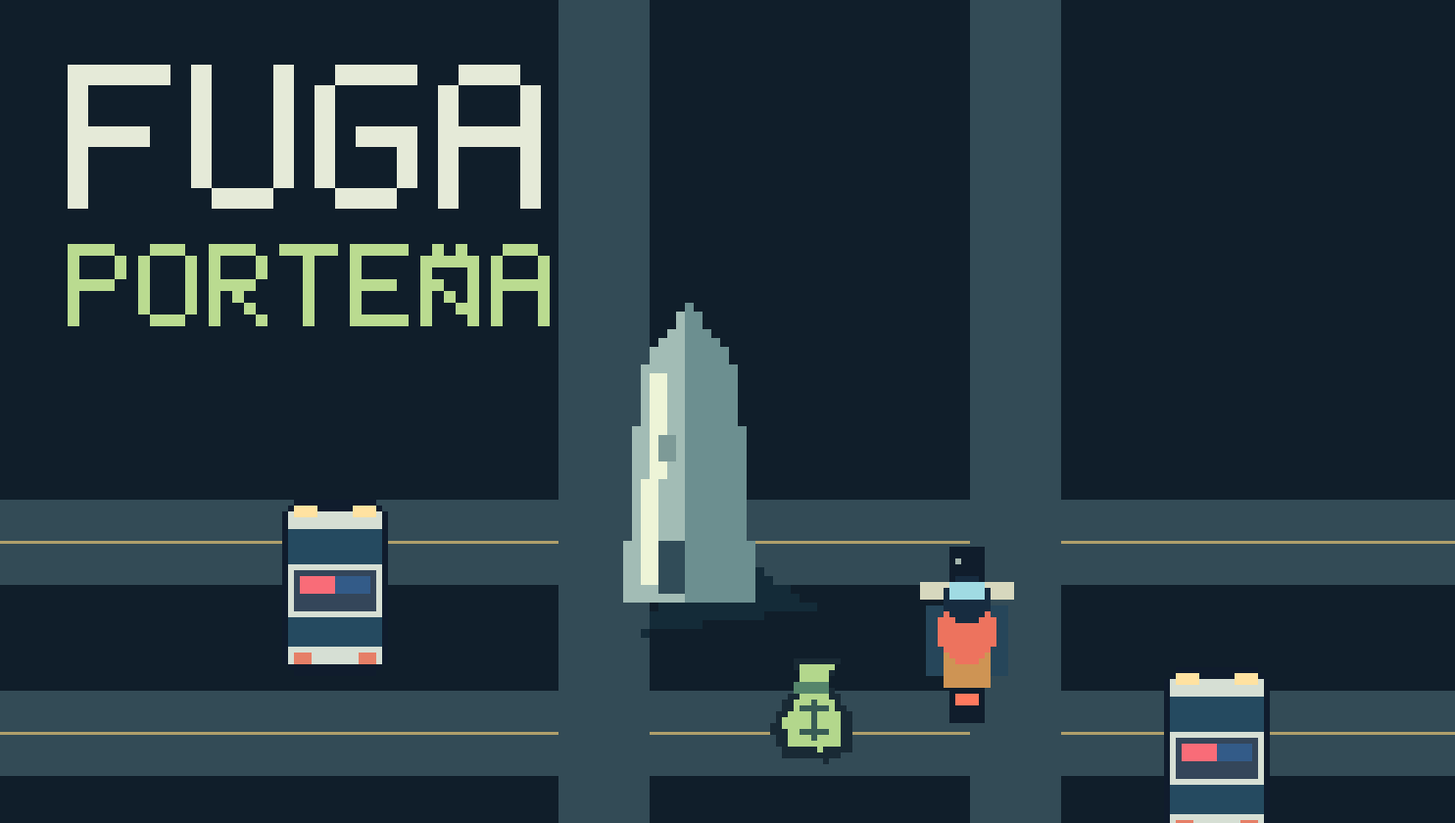
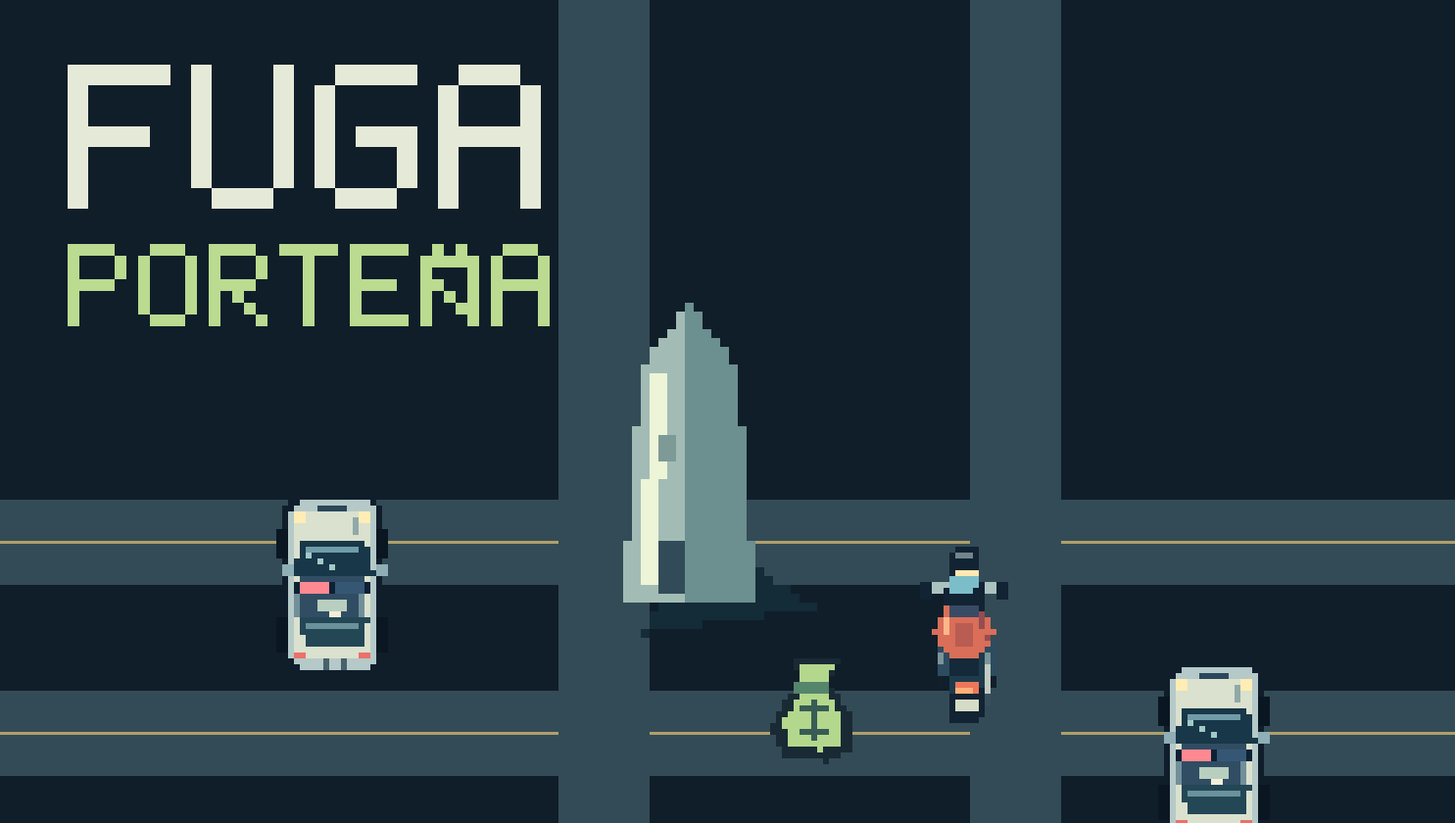
Upgrade Fuga Portena vehicles, animation and arcade chase bonuses

Changed region(s): [[0.1859, 0.5881, 0.2788, 0.8357], [0.7744, 0.8048, 0.8983, 1.0], [0.6195, 0.65, 0.7125, 0.8667]]

diff --git a/games/fuga-portena/game.js b/games/fuga-portena/game.js
@@ -5,23 +5,24 @@ const sound={ctx:null,on:saved.sound,unlock(){try{this.ctx??=new(window.AudioCon
 const V={up:{x:0,y:-1},down:{x:0,y:1},left:{x:-1,y:0},right:{x:1,y:0}};
 class FugaScene extends Phaser.Scene{
  constructor(){super('Fuga');}
- preload(){this.load.json('map','map.json');this.load.image('city','assets/city.png');for(const key of ['moto','patrol','money','coin','mate','obelisk']){const w=key==='obelisk'?32:key==='moto'||key==='patrol'?24:16,h=key==='obelisk'?40:key==='moto'||key==='patrol'?32:20;this.load.spritesheet(key,`assets/${key}-sheet.png`,{frameWidth:w,frameHeight:h});}}
+ preload(){this.load.json('map','map.json');this.load.image('city','assets/city.png');for(const key of ['moto','patrol','money','coin','mate','obelisk']){const w=key==='obelisk'?32:key==='moto'||key==='patrol'?48:16,h=key==='obelisk'?40:key==='moto'||key==='patrol'?64:20;this.load.spritesheet(key,`assets/${key}-sheet.png`,{frameWidth:w,frameHeight:h});}}
  create(){
-  this.map=this.cache.json.get('map');this.nodes=this.map.nodes;this.mode='title';this.clock=0;this.score=0;this.lives=3;this.round=1;this.power=0;this.invulnerable=0;this.chain=0;this.particles=[];this.wanted=V.right;this.heading=V.right;this.braking=false;this.overview=false;
-  this.add.image(0,0,'city').setOrigin(0).setDepth(-5);this.art=this.add.graphics().setDepth(1);this.effects=this.add.graphics().setDepth(12);this.drawLandmarks();
+  this.map=this.cache.json.get('map');this.nodes=this.map.nodes;this.mode='title';this.clock=0;this.score=0;this.lives=3;this.round=1;this.power=0;this.invulnerable=0;this.chain=0;this.particles=[];this.wanted=V.right;this.heading=V.right;this.braking=false;this.overview=false;this.nitro=0;this.nitroCooldown=0;this.streak=0;this.streakTimer=0;this.skids=[];
+  this.add.image(0,0,'city').setOrigin(0).setDepth(-5);this.art=this.add.graphics().setDepth(1);this.effects=this.add.graphics().setDepth(12);this.groundFX=this.add.graphics().setDepth(7);this.drawLandmarks();
   this.startNode=Fuga.nearest(this.nodes,{x:245,y:454});this.homePoints=[{x:100,y:100},{x:800,y:110},{x:820,y:740},{x:120,y:730}].map(p=>Fuga.nearest(this.nodes,p));
   this.hero=this.actor('moto',this.startNode);this.cops=this.homePoints.map((n,i)=>({...this.actor('patrol',n),role:i,home:n,spin:0,returning:0}));
-  this.keys=this.input.keyboard.addKeys('W,A,S,D,UP,DOWN,LEFT,RIGHT,SPACE,P');this.input.keyboard.addCapture(['UP','DOWN','LEFT','RIGHT','SPACE']);
+  this.keys=this.input.keyboard.addKeys('W,A,S,D,UP,DOWN,LEFT,RIGHT,SPACE,P,N,SHIFT');this.input.keyboard.addCapture(['UP','DOWN','LEFT','RIGHT','SPACE']);
   for(const [key,dir] of Object.entries({W:'up',UP:'up',S:'down',DOWN:'down',A:'left',LEFT:'left',D:'right',RIGHT:'right'}))this.input.keyboard.on('keydown-'+key,()=>this.turn(V[dir]));
   this.input.keyboard.on('keydown-P',e=>{if(!e.repeat)this.pauseToggle();});
+  this.input.keyboard.on('keydown-N',e=>{if(!e.repeat)this.boost();});this.input.keyboard.on('keydown-SHIFT',e=>{if(!e.repeat)this.boost();});$('#nitro').onclick=()=>this.boost();
   for(const b of document.querySelectorAll('[data-dir]'))b.onclick=()=>this.turn(V[b.dataset.dir]);
   $('#brake').onpointerdown=e=>{e.preventDefault();this.braking=true;};for(const k of ['onpointerup','onpointerleave','onpointercancel'])$('#brake')[k]=()=>this.braking=false;
   this.input.on('pointerdown',p=>{this.swipe={x:p.x,y:p.y};});this.input.on('pointermove',p=>{if(p.isDown&&this.swipe){const x=p.x-this.swipe.x,y=p.y-this.swipe.y;if(Math.hypot(x,y)>22){this.turn(Math.abs(x)>Math.abs(y)?x>0?V.right:V.left:y>0?V.down:V.up);this.swipe={x:p.x,y:p.y};}}});this.input.on('pointerup',()=>this.swipe=null);
   $('#start').onclick=()=>{sound.unlock();if(this.mode==='paused')this.resume();else if(this.mode==='between'){this.round++;this.beginRound();}else this.start();};$('#pause').onclick=()=>this.pauseToggle();$('#view').onclick=()=>{this.overview=!this.overview;this.camera();};$('#sound').onclick=()=>{sound.on=!sound.on;saved.sound=sound.on;sound.unlock();save();this.soundUI();};
   this.game.events.on(Phaser.Core.Events.BLUR,()=>{if(this.mode==='playing')this.pauseToggle();});this.scale.on('resize',()=>this.camera());this.camera();this.pickups=[];this.setupPickups();this.hud();this.soundUI();this.cameras.main.centerOn(510,440);
  }
- actor(texture,node){const p=this.nodes[node];return{at:node,to:null,prev:null,t:0,x:p.x,y:p.y,angle:0,sprite:this.add.image(p.x,p.y,texture).setScale(texture==='moto'?1.35:1.2).setDepth(9)};}
- place(a,node){const p=this.nodes[node];Object.assign(a,{at:node,to:null,prev:null,t:0,x:p.x,y:p.y});a.sprite.setPosition(p.x,p.y).setAlpha(1).setVisible(true).clearTint();}
+ actor(texture,node){const p=this.nodes[node];return{at:node,to:null,prev:null,t:0,x:p.x,y:p.y,angle:0,visualAngle:0,skid:0,sprite:this.add.image(p.x,p.y,texture).setScale(texture==='moto'?.85:.8).setDepth(9)};}
+ place(a,node){const p=this.nodes[node];Object.assign(a,{at:node,to:null,prev:null,t:0,x:p.x,y:p.y,angle:0,visualAngle:0,skid:0});a.sprite.setPosition(p.x,p.y).setAlpha(1).setVisible(true).clearTint();}
  camera(){const c=this.cameras.main;c.setBounds(-20,-20,this.map.width+40,this.map.height+40);const fit=Math.min(this.scale.width/this.map.width,this.scale.height/this.map.height);const zoom=this.overview?fit:Math.max(fit,this.scale.width<650?1.03:.95);c.setZoom(zoom);c.startFollow(this.hero.sprite,true,.1,.1);$('.arena').classList.toggle('overview',this.overview);$('#view').textContent=this.overview?'SEGUIR MOTO ⌖':'VER TODO ⤢';}
  drawLandmarks(){
   const [x,y]=this.map.obelisk;this.add.image(x,y-9,'obelisk').setScale(1.7).setDepth(4);this.label(x,y+32,'OBELISCO',0xbadba3,10);
@@ -38,17 +39,17 @@ class FugaScene extends Phaser.Scene{
  }
  addPickup(node,type){const p=this.nodes[node];this.pickups.push({node,type,x:p.x,y:p.y,taken:false,sprite:this.add.image(p.x,p.y,type).setDepth(5).setScale(type==='coin'?.8:1.25)});}
  start(){this.score=0;this.round=1;this.lives=3;this.beginRound();}
- beginRound(){this.setupPickups();this.resetActors();this.mode='playing';this.power=0;this.chain=0;this.invulnerable=2.2;this.aiWait=0;this.particles=[];this.clock=0;$('#overlay').classList.add('hidden');this.toast('RONDA '+this.round+' · LEVANTÁ EL BOTÍN',2);this.hud();}
- resetActors(){this.place(this.hero,this.startNode);this.wanted=V.right;this.heading=V.right;this.braking=false;for(const c of this.cops){this.place(c,c.home);c.returning=0;c.spin=0;}this.swipe=null;}
+ beginRound(){this.setupPickups();this.resetActors();this.mode='playing';this.power=0;this.chain=0;this.invulnerable=2.2;this.aiWait=0;this.particles=[];this.clock=0;this.nitro=0;this.nitroCooldown=0;this.streak=0;this.streakTimer=0;this.skids=[];$('#overlay').classList.add('hidden');this.toast('RONDA '+this.round+' · LEVANTÁ EL BOTÍN',2);this.hud();}
+ resetActors(){this.place(this.hero,this.startNode);this.wanted=V.right;this.heading=V.right;this.braking=false;this.nitro=0;for(const c of this.cops){this.place(c,c.home);c.returning=0;c.spin=0;c.near=false;}this.swipe=null;}
  soundUI(){$('#sound').textContent=sound.on?'♪ ON':'♪ OFF';$('#sound').setAttribute('aria-label',sound.on?'Silenciar sonido':'Activar sonido');}
  hud(){$('#score').textContent=String(this.score).padStart(5,'0');$('#best').textContent=String(saved.best).padStart(5,'0');$('#round').textContent='0'+this.round+' / 03';$('#remaining').textContent=this.left;$('#lives').innerHTML=Array.from({length:3},(_,i)=>`<img src="assets/mate.png" alt="" class="${i>=this.lives?'empty':''}">`).join('');$('#lives').setAttribute('aria-label',this.lives+' mates');}
  turn(v){if(this.mode!=='playing')return;this.wanted=v;const h=this.hero;if(h.to!==null){const dir=Fuga.direction(this.nodes,h.at,h.to);if(dir.x*v.x+dir.y*v.y<-.8){const old=h.at;h.at=h.to;h.to=old;h.t=1-h.t;this.heading={x:-dir.x,y:-dir.y};}}}
- move(a,speed,dt,choose){let remaining=speed*dt,guard=0;while(remaining>0&&guard++<80){if(a.to===null){const l=choose(a);if(!l)break;a.to=l.to;a.road=l.name;a.t=0;}const n=this.nodes[a.at],next=this.nodes[a.to],length=Fuga.dist(n,next),available=(1-a.t)*length;if(remaining>=available){remaining-=available;a.prev=a.at;a.at=a.to;a.to=null;a.x=next.x;a.y=next.y;}else{a.t+=remaining/length;a.x=n.x+(next.x-n.x)*a.t;a.y=n.y+(next.y-n.y)*a.t;remaining=0;}a.angle=Math.atan2(next.y-n.y,next.x-n.x)+Math.PI/2;}a.sprite.setPosition(a.x,a.y).setRotation(a.angle);}
+ move(a,speed,dt,choose){let remaining=speed*dt,guard=0;while(remaining>0&&guard++<80){if(a.to===null){const l=choose(a);if(!l)break;a.to=l.to;a.road=l.name;a.t=0;}const n=this.nodes[a.at],next=this.nodes[a.to],length=Fuga.dist(n,next),available=(1-a.t)*length;if(remaining>=available){remaining-=available;a.prev=a.at;a.at=a.to;a.to=null;a.x=next.x;a.y=next.y;}else{a.t+=remaining/length;a.x=n.x+(next.x-n.x)*a.t;a.y=n.y+(next.y-n.y)*a.t;remaining=0;}const angle=Math.atan2(next.y-n.y,next.x-n.x)+Math.PI/2;if(Math.abs(Phaser.Math.Angle.Wrap(angle-a.angle))>.5){a.skid=.28;if(this.mode==='playing')this.burst(a.x,a.y,0x879b99,4);}a.angle=angle;}a.visualAngle=Phaser.Math.Angle.RotateTo(a.visualAngle,a.angle,dt*11);a.sprite.setPosition(a.x,a.y).setRotation(a.visualAngle);}
  chooseHero(a){const l=Fuga.steer(this.nodes,a.at,this.wanted,this.heading);if(l)this.heading=Fuga.direction(this.nodes,a.at,l.to);return l;}
  chooseCop(c){let options=this.nodes[c.at].links.filter(l=>l.to!==c.prev);if(!options.length)options=this.nodes[c.at].links;const distances=this.distances[c.role]||[];options=options.map(l=>({...l,value:distances[l.to]??999}));options.sort((a,b)=>this.power>0?b.value-a.value:a.value-b.value);return options[0];}
- collect(p){if(p.taken)return;p.taken=true;p.sprite.setVisible(false);if(p.type==='coin'){this.score+=10;this.left--;sound.play(480+(this.score%4)*80,.04);}if(p.type==='money'){this.score+=50;this.power=9;this.chain=0;this.toast('BOLSA DE DINERO · ¡VENTAJA!',1.5);sound.play(300,.25);this.burst(p.x,p.y,0xbadf93,16);}if(p.type==='mate'){this.lives=Math.min(3,this.lives+1);this.score+=25;this.toast('UN MATE MÁS PARA SEGUIR',1.4);sound.play(780,.18);}this.hud();if(this.left===0)this.endRound();}
+ collect(p){if(p.taken)return;p.taken=true;p.sprite.setVisible(false);if(p.type==='coin'){this.score+=10;this.left--;this.streak=this.streakTimer>0?this.streak+1:1;this.streakTimer=2.1;if(this.streak%5===0){this.score+=25;this.toast('RACHA ×'+this.streak+' · +25',.8);this.burst(p.x,p.y,0xf0cb82,8);}sound.play(480+(this.score%4)*80,.04);}if(p.type==='money'){this.score+=50;this.power=9;this.chain=0;this.toast('BOLSA DE DINERO · ¡VENTAJA!',1.5);sound.play(300,.25);this.burst(p.x,p.y,0xbadf93,16);}if(p.type==='mate'){this.lives=Math.min(3,this.lives+1);this.score+=25;this.toast('UN MATE MÁS PARA SEGUIR',1.4);sound.play(780,.18);}this.hud();if(this.left===0)this.endRound();}
  burst(x,y,color,n=15){for(let i=0;i<n;i++){const a=Math.random()*Math.PI*2;this.particles.push({x,y,vx:Math.cos(a)*55,vy:Math.sin(a)*55,life:.6+Math.random()*.4,color});}}
- captured(){if(this.invulnerable>0||this.mode!=='playing')return;this.lives--;this.burst(this.hero.x,this.hero.y,0xf3ba79,24);sound.play(120,.35);this.hud();if(this.lives<=0){this.finish(false);return;}this.power=0;this.resetActors();this.invulnerable=3;this.toast('TE CERRARON EL PASO · −1 MATE',1.7);}
+ captured(){if(this.invulnerable>0||this.mode!=='playing')return;this.lives--;this.burst(this.hero.x,this.hero.y,0xf3ba79,24);sound.play(120,.35);this.hud();if(this.lives<=0){this.finish(false);return;}this.power=0;this.streak=0;this.streakTimer=0;this.resetActors();this.invulnerable=3;this.toast('TE CERRARON EL PASO · −1 MATE',1.7);}
  endRound(){if(this.round===3){this.finish(true);return;}this.mode='between';this.score+=200;this.record();this.overlay('EL CENTRO QUEDÓ LIMPIO','RONDA<br><em>COMPLETA.</em>','Levantaste todo el botín.<br>La próxima ronda suma velocidad y otro patrullero.','SEGUIR LA FUGA ↗');}
  record(){saved.best=Math.max(saved.best,this.score);save();this.hud();}
  finish(win){this.mode=win?'won':'lost';if(win)this.score+=this.lives*300;this.record();this.overlay(win?'TRES RONDAS POR EL CENTRO':'LA CALLE PIDE OTRA PARTIDA',win?'FUGA<br><em>PERFECTA.</em>':'SE ACABÓ<br><em>EL MATE.</em>',`Botín: ${this.score} · Récord: ${saved.best}<br>${win?'El Obelisco te vio pasar.':'El botín ya levantado queda en tu récord.'}`,'VOLVER A SALIR ↗');}
@@ -57,17 +58,23 @@ class FugaScene extends Phaser.Scene{
  resume(){this.mode='playing';$('#overlay').classList.add('hidden');}
  toast(text,seconds=1.5){$('#toast').textContent=text;$('#toast').style.opacity=1;this.toastTime=seconds;}
  update(time,delta){if(!this.hero)return;const dt=Math.min(delta/1000,.04);if(this.mode==='playing'){
-   this.clock+=dt;this.power=Math.max(0,this.power-dt);this.invulnerable=Math.max(0,this.invulnerable-dt);this.toastTime-=dt;if(this.toastTime<=0)$('#toast').style.opacity=0;
-   this.move(this.hero,this.braking||this.keys.SPACE.isDown?0:132,dt,a=>this.chooseHero(a));$('#street').textContent=(this.hero.road||'CORRIENTES').toUpperCase();
+   this.clock+=dt;this.nitro=Math.max(0,this.nitro-dt);this.nitroCooldown=Math.max(0,this.nitroCooldown-dt);this.streakTimer=Math.max(0,this.streakTimer-dt);this.power=Math.max(0,this.power-dt);this.invulnerable=Math.max(0,this.invulnerable-dt);this.toastTime-=dt;if(this.toastTime<=0)$('#toast').style.opacity=0;
+   this.move(this.hero,this.braking||this.keys.SPACE.isDown?0:this.nitro>0?190:132,dt,a=>this.chooseHero(a));$('#street').textContent=(this.hero.road||'CORRIENTES').toUpperCase();
+   for(const p of this.pickups)if(!p.taken&&Fuga.dist(this.hero,p)<19){this.collect(p);if(this.mode!=='playing')return;}
    this.aiWait-=dt;if(this.aiWait<=0){this.aiWait=.5;const h=this.nodes[this.hero.to??this.hero.at];this.distances=this.cops.map(c=>{let target=this.hero.to??this.hero.at;if(c.role===1)target=Fuga.nearest(this.nodes,{x:h.x+this.heading.x*100,y:h.y+this.heading.y*100});if(c.role===2&&Math.sin(this.clock*.25)>0)target=Fuga.nearest(this.nodes,{x:h.x-this.heading.y*100,y:h.y+this.heading.x*100});return Fuga.field(this.nodes,target);});}
-   for(const c of this.cops){const active=c.role<Math.min(4,this.round+2);c.sprite.visible=active;if(!active)continue;if(c.returning>0){c.returning-=dt;if(c.returning<=0)this.place(c,c.home);else{c.sprite.setRotation(c.sprite.rotation+dt*11).setAlpha(Math.min(1,c.returning));continue;}}this.move(c,this.power>0?65:88+this.round*9,dt,a=>this.chooseCop(a));c.sprite.setFrame(Math.floor(this.clock*9+c.role)%4);if(this.power>0)c.sprite.setTint(0x6ea7d2);else c.sprite.clearTint();if(Fuga.dist(this.hero,c)<19){if(this.power>0){c.returning=4.5;this.chain++;this.score+=100*this.chain;this.burst(c.x,c.y,0x84d6e0,22);sound.play(220+this.chain*100,.16);this.toast('TROMPO · +'+100*this.chain,1);this.hud();}else this.captured();}}
+   for(const c of this.cops){const active=c.role<Math.min(4,this.round+2);c.sprite.visible=active;if(!active)continue;if(c.returning>0){c.returning-=dt;if(c.returning<=0)this.place(c,c.home);else{c.sprite.setRotation(c.sprite.rotation+dt*11).setAlpha(Math.min(1,c.returning));continue;}}this.move(c,this.power>0?65:88+this.round*9,dt,a=>this.chooseCop(a));c.sprite.setFrame(Math.floor(this.clock*12+c.role*2)%8);if(this.power>0)c.sprite.setTint(0x6ea7d2);else c.sprite.clearTint();const distance=Fuga.dist(this.hero,c);if(!this.power&&this.invulnerable===0){if(distance>22&&distance<48)c.near=true;else if(c.near&&distance>80){c.near=false;this.score+=30;this.nitroCooldown=Math.max(0,this.nitroCooldown-1.5);this.toast('POR UN PELO · +30',1);sound.play(840,.1);this.hud();}}else c.near=false;if(distance<19){if(this.power>0){c.returning=4.5;this.chain++;this.score+=100*this.chain;this.burst(c.x,c.y,0x84d6e0,22);sound.play(220+this.chain*100,.16);this.toast('TROMPO ×'+this.chain+' · +'+100*this.chain,1);this.hud();}else this.captured();}}
    if(this.mode!=='playing')return;for(const p of this.pickups)if(!p.taken&&Fuga.dist(this.hero,p)<19){this.collect(p);if(this.mode!=='playing')break;}
   }
-  this.hero.sprite.setFrame(Math.floor(this.clock*12)%4).setAlpha(this.invulnerable>0&&this.mode==='playing'?(Math.sin(this.clock*22)>0?.45:1):1);this.renderFX(dt);
+  this.hero.sprite.setFrame(Math.floor(this.clock*14)%8).setAlpha(this.invulnerable>0&&this.mode==='playing'?(Math.sin(this.clock*22)>0?.45:1):1);this.renderFX(dt);
+  $('#nitro').disabled=this.nitroCooldown>0||this.mode!=='playing';$('#nitro').textContent=this.nitro>0?'NITRO ⚡':this.nitroCooldown>0?'NITRO '+Math.ceil(this.nitroCooldown)+'s':'NITRO ⚡ LISTO';
   $('#power').textContent=this.power>0?'¡VENTAJA! PATRULLEROS VULNERABLES · '+Math.ceil(this.power)+'s':'BOLSAS DE DINERO = VENTAJA';$('#powerbar').style.width=(this.power/9*100)+'%';
  }
- renderFX(dt){const g=this.effects;g.clear();for(const p of this.pickups)if(!p.taken&&p.type!=='coin'){const r=13+Math.sin(this.clock*4)*2;g.lineStyle(1,p.type==='money'?0xbadf93:0xffc578,.6);g.strokeRect(p.x-r,p.y-r,r*2,r*2);p.sprite.setY(p.y+Math.sin(this.clock*4)*2);}
-  if(this.mode==='playing'){const h=this.hero,dx=Math.sin(h.angle),dy=-Math.cos(h.angle);g.fillStyle(0xf5d89b,.1);g.fillTriangle(h.x+dx*12,h.y+dy*12,h.x+dx*65+dy*14,h.y+dy*65-dx*14,h.x+dx*65-dy*14,h.y+dy*65+dx*14);if(!this.braking&&!this.keys.SPACE.isDown&&Math.random()<.35)this.particles.push({x:h.x-dx*18,y:h.y-dy*18,vx:-dx*12,vy:-dy*12,life:.25,color:0x819398});}
+ boost(){if(this.mode!=='playing'||this.nitroCooldown>0)return false;this.nitro=1.15;this.nitroCooldown=6;this.braking=false;this.toast('NITRO · ¡BUSCÁ LA ESQUINA!',1);sound.play(170,.28);this.burst(this.hero.x,this.hero.y,0x96e1dd,12);return true;}
+ renderFX(dt){const g=this.effects,ground=this.groundFX;g.clear();ground.clear();const active=this.mode==='playing';
+  for(const a of [this.hero,...this.cops]){if(!a.sprite.visible)continue;const isHero=a===this.hero,dx=Math.sin(a.visualAngle),dy=-Math.cos(a.visualAngle);ground.fillStyle(0x071520,.4);ground.fillEllipse(a.x+4,a.y+6,isHero?23:31,isHero?36:45);if(active){a.skid=Math.max(0,a.skid-dt);if(a.skid>0||isHero&&(this.braking||this.keys.SPACE.isDown)){this.skids.push({x:a.x-dx*14,y:a.y-dy*14,angle:a.visualAngle,life:2.4});}}if(!isHero&&!a.returning){const red=Math.floor(this.clock*12+a.role)%4<2;g.fillStyle(red?0xee5a86:0x59cbe5,.1);g.fillCircle(a.x,a.y,28);g.fillStyle(red?0xff8ca7:0x9beaff,.8);g.fillRect(a.x-2,a.y-3,4,3);if(Fuga.dist(a,this.hero)<160){g.fillStyle([0xee8a92,0x79cddc,0xd5b278,0xa9c396][a.role],.9);g.fillRect(a.x-5,a.y+29,10,3);}}}
+  for(const mark of this.skids){if(active)mark.life-=dt;ground.lineStyle(2,0x07141e,Math.min(.55,mark.life*.3));const dx=Math.sin(mark.angle),dy=-Math.cos(mark.angle);ground.lineBetween(mark.x-dx*4,mark.y-dy*4,mark.x+dx*4,mark.y+dy*4);}this.skids=this.skids.filter(p=>p.life>0).slice(-160);
+  for(const p of this.pickups)if(!p.taken&&p.type!=='coin'){const r=13+Math.sin(this.clock*4)*2;g.lineStyle(1,p.type==='money'?0xbadf93:0xffc578,.6);g.strokeRect(p.x-r,p.y-r,r*2,r*2);p.sprite.setY(p.y+Math.sin(this.clock*4)*2);}
+  if(this.mode==='playing'){const h=this.hero,dx=Math.sin(h.angle),dy=-Math.cos(h.angle);g.fillStyle(0xf5d89b,.1);g.fillTriangle(h.x+dx*12,h.y+dy*12,h.x+dx*65+dy*14,h.y+dy*65-dx*14,h.x+dx*65-dy*14,h.y+dy*65+dx*14);if(this.nitro>0){g.fillStyle(0x8ee4df,.18);g.fillTriangle(h.x-dx*20+dy*5,h.y-dy*20-dx*5,h.x-dx*20-dy*5,h.y-dy*20+dx*5,h.x-dx*(45+Math.sin(this.clock*45)*5),h.y-dy*(45+Math.sin(this.clock*45)*5));g.fillStyle(0xffe1a2,.8);g.fillRect(h.x-dx*23-2,h.y-dy*23-2,4,4);}if(!this.braking&&!this.keys.SPACE.isDown&&Math.random()<(this.nitro>0?.9:.35))this.particles.push({x:h.x-dx*18,y:h.y-dy*18,vx:-dx*12,vy:-dy*12,life:.25,color:0x819398});}
   for(const p of this.particles){if(this.mode==='playing'){p.life-=dt;p.x+=p.vx*dt;p.y+=p.vy*dt;}g.fillStyle(p.color,Math.max(0,p.life));g.fillRect(Math.round(p.x/2)*2,Math.round(p.y/2)*2,3,3);}this.particles=this.particles.filter(p=>p.life>0);
  }
 }

diff --git a/games/fuga-portena/index.html b/games/fuga-portena/index.html
@@ -1,6 +1,6 @@
 <!doctype html><html lang="es-AR"><head><meta charset="utf-8"><meta name="viewport" content="width=device-width, initial-scale=1, viewport-fit=cover"><title>Fuga Porteña · Pixel Sur Arcade</title><link rel="stylesheet" href="style.css"></head><body>
-<main><header><div class="brand">FUGA <b>PORTEÑA</b><small>PIXEL SUR ORIGINAL / 03</small></div><div class="score"><small>BOTÍN</small><strong id="score">00000</strong></div><div><small>TUS MATES</small><div id="lives"></div></div><button id="pause" aria-label="Pausar">Ⅱ</button><button id="sound" aria-label="Activar sonido">♪ OFF</button></header>
+<main><header><div class="brand">FUGA <b>PORTEÑA</b><small>PIXEL SUR ORIGINAL / 03 · ED. 02</small></div><div class="score"><small>BOTÍN</small><strong id="score">00000</strong></div><div><small>TUS MATES</small><div id="lives"></div></div><button id="nitro" aria-label="Activar nitro">NITRO ⚡ LISTO</button><button id="pause" aria-label="Pausar">Ⅱ</button><button id="sound" aria-label="Activar sonido">♪ OFF</button></header>
 <div class="layout"><section class="arena"><div id="game" aria-label="Mapa de juego de Buenos Aires. Flechas o WASD para doblar."></div><div class="street"><span id="street">CORRIENTES / OBELISCO</span><button id="view">VER TODO ⤢</button></div><div class="power"><span id="power">BOLSAS DE DINERO = VENTAJA</span><i id="powerbar"></i></div><div id="toast" aria-live="polite"></div>
-<div id="overlay"><div class="intro"><small id="eyebrow">BUENOS AIRES / DESPUÉS DE HORA</small><h1 id="title">FUGA<br><em>PORTEÑA</em></h1><p id="description">Una moto. Las calles del centro.<br>Levantá el botín y perdé a los patrulleros.</p><div class="facts"><span>🧉 3 MATES</span><span>CALLES REALES</span><span>ARCADE PROPIO</span></div><button id="start">SALIR A LA CALLE ↗</button><p class="hint">Flechas / WASD: doblar · Espacio: frenar<br>En móvil: deslizá o usá las flechas · P: pausa</p></div></div></section>
-<aside><span class="eyebrow">EL CENTRO ES UN LABERINTO</span><h2>NO PIERDAS<br>LA ESQUINA.</h2><p>Anticipá el giro: la moto dobla en la próxima esquina disponible.</p><div class="stat"><span>BOTINES RESTANTES</span><b id="remaining">—</b></div><div class="stat"><span>RONDA</span><b id="round">01 / 03</b></div><div class="stat"><span>RÉCORD LOCAL</span><b id="best">00000</b></div><div class="legend"><span><img src="assets/money.png" alt="Bolsa de dinero"> 9 segundos de ventaja. Los patrulleros se pueden sacar de juego con un trompo.</span><span><img src="assets/mate.png" alt="Mate"> Cada captura cuesta un mate. Encontrá el mate extra para recuperar uno por ronda.</span></div><div class="directions"><button data-dir="up" aria-label="Doblar arriba">↑</button><div><button data-dir="left" aria-label="Doblar izquierda">←</button><button id="brake" aria-label="Mantener para frenar">FRENO</button><button data-dir="right" aria-label="Doblar derecha">→</button></div><button data-dir="down" aria-label="Doblar abajo">↓</button></div><p class="map-note">Obelisco · Corrientes · Cerrito · Suipacha<br>Geometría OSM 2018. Doble sentido arcade; edificios ilustrados.</p></aside></div>
+<div id="overlay"><div class="intro"><small id="eyebrow">BUENOS AIRES / DESPUÉS DE HORA</small><h1 id="title">FUGA<br><em>PORTEÑA</em></h1><p id="description">Una moto. Las calles del centro.<br>Levantá el botín y perdé a los patrulleros.</p><div class="facts"><span>🧉 3 MATES</span><span>CALLES REALES</span><span>ARCADE PROPIO</span></div><button id="start">SALIR A LA CALLE ↗</button><p class="hint">Flechas / WASD: doblar · Espacio: frenar · N / Shift: nitro<br>En móvil: deslizá o usá las flechas · P: pausa</p></div></div></section>
+<aside><span class="eyebrow">EL CENTRO ES UN LABERINTO</span><h2>NO PIERDAS<br>LA ESQUINA.</h2><p>Anticipá el giro, activá el nitro y escapá por un pelo para sumar bonus.</p><div class="stat"><span>BOTINES RESTANTES</span><b id="remaining">—</b></div><div class="stat"><span>RONDA</span><b id="round">01 / 03</b></div><div class="stat"><span>RÉCORD LOCAL</span><b id="best">00000</b></div><div class="legend"><span><img src="assets/money.png" alt="Bolsa de dinero"> 9 segundos de ventaja. Los patrulleros se pueden sacar de juego con un trompo.</span><span><img src="assets/mate.png" alt="Mate"> Cada captura cuesta un mate. Encontrá el mate extra para recuperar uno por ronda.</span></div><div class="directions"><button data-dir="up" aria-label="Doblar arriba">↑</button><div><button data-dir="left" aria-label="Doblar izquierda">←</button><button id="brake" aria-label="Mantener para frenar">FRENO</button><button data-dir="right" aria-label="Doblar derecha">→</button></div><button data-dir="down" aria-label="Doblar abajo">↓</button></div><p class="map-note">Obelisco · Corrientes · Cerrito · Suipacha<br>Geometría OSM 2018. Doble sentido arcade; edificios ilustrados.</p></aside></div>
 <footer><span>FICCIÓN ARCADE · SIN MONEDAS, CON MATE</span><a href="https://www.openstreetmap.org/copyright" target="_blank" rel="noopener">© OpenStreetMap contributors · ODbL</a></footer></main><script src="phaser.min.js"></script><script src="core.js"></script><script src="game.js"></script></body></html>

diff --git a/games/fuga-portena/style.css b/games/fuga-portena/style.css
@@ -4,3 +4,5 @@
 /* Keep the HUD on screen inside the portal's shorter iframe. */
 html,body{height:100%;overflow:hidden}main{height:100dvh;display:flex;flex-direction:column}header{flex-shrink:0}.layout{flex:1;min-height:0;overflow:hidden;padding-bottom:0}.arena{height:100%;min-height:0}aside{min-height:0;overflow-y:auto;scrollbar-width:thin}footer{flex-shrink:0;min-height:24px;align-items:center}
 @media(max-width:800px){.layout{grid-template-rows:minmax(0,1fr) auto}.arena{height:100%;min-height:0}aside{overflow:visible;min-height:55px}footer{min-height:18px}}
+
+#nitro{color:#bce5b0;border-color:#628577;min-width:92px}#nitro:disabled{opacity:.45;cursor:default}@media(max-width:800px){header{gap:8px}.brand{font-size:19px}.brand small{font-size:5px}#nitro{min-width:55px;font-size:6px;padding:7px 3px}header small{font-size:7px}header button{padding:7px 5px}#lives{gap:1px}#lives img{height:17px}.score strong{font-size:17px}}

diff --git a/games/fuga-portena/create-art.py b/games/fuga-portena/create-art.py
@@ -3,14 +3,42 @@ from pathlib import Path
 import random
 R=Path(__file__).parent/'assets'
 for name in ['moto','patrol','money','coin','obelisk','mate']:
- size=(32,40) if name=='obelisk' else (24,32) if name in ['moto','patrol'] else (16,20)
+ size=(32,40) if name=='obelisk' else (48,64) if name in ['moto','patrol'] else (16,20)
  frames=[]
- for f in range(4):
+ for f in range(8 if name in ['moto','patrol'] else 4):
   im=Image.new('RGBA',size);d=ImageDraw.Draw(im)
   if name=='moto':
-   d.rectangle((9,1,14,6),fill='#101d2c');d.rectangle((9,25,14,30),fill='#101d2c');d.rectangle((8,7,15,24),fill='#ce9454');d.rectangle((9,9,14,19),fill='#aee3d2');d.rectangle((4,7,19,9),fill='#d7d8be');d.rectangle((5,11,7,22),fill='#26465a');d.rectangle((16,11,18,22),fill='#26465a');d.ellipse((7,10,16,20),fill='#ed735e');d.ellipse((8,6,15,13),fill='#172c40');d.rectangle((9,7,14,9),fill='#a0dbe3');d.rectangle((10,26,13,27),fill='#ff795e');d.point((10+f%2,3),fill='#a4b5ad')
+   # Eight frames: tire tread, fork suspension, jacket folds, visor glints.
+   bounce=[0,0,1,1,0,0,-1,-1][f];ink='#122333'
+   d.rounded_rectangle((19,2,28,14),radius=3,fill=ink);d.rounded_rectangle((18,47,29,62),radius=3,fill=ink)
+   for y in [5+f%3,10+f%3,50+f%3,55+f%3]:d.line((21,y,26,y),fill='#71868b')
+   d.rectangle((21,13,26,51),fill='#8fa6ab');d.polygon([(18,17),(29,17),(32,38),(28,51),(19,51),(15,38)],fill='#1e3b4c')
+   d.polygon([(20,16),(27,16),(29,29),(25,35),(19,29)],fill='#b4e2d6');d.line((21,17,20,28),fill='#f2eed6',width=2)
+   d.rectangle((19,39,28,46),fill='#142939');d.line((20,40,27,40),fill='#6f8d92')
+   for x in [14,30]:
+    d.rectangle((x,34,x+3,48),fill='#2e4c5f');d.line((x,36,x+2,44),fill='#7a9599');d.rectangle((x,47,x+3,49),fill='#101f2b')
+   d.rectangle((9,15+bounce,37,17+bounce),fill='#abc3bf');d.rectangle((8,15+bounce,12,19+bounce),fill=ink);d.rectangle((34,15+bounce,38,19+bounce),fill=ink)
+   d.polygon([(17,22+bounce),(29,22+bounce),(33,32+bounce),(28,39+bounce),(18,39+bounce),(13,32+bounce)],fill='#d96e59')
+   d.line((18,24+bounce,16,32+bounce),fill='#ffb68a',width=2);d.line((28,25+bounce,30,33+bounce),fill='#944d51',width=2);d.rectangle((21,28+bounce,25,35+bounce),fill='#b95c51')
+   d.ellipse((17,11+bounce,30,26+bounce),fill=ink);d.polygon([(19,13+bounce),(26,12+bounce),(29,16+bounce),(18,19+bounce)],fill='#7bbdc9')
+   d.line((19+f%3,14+bounce,23+f%3,14+bounce),fill='#e6f2dd');d.rectangle((19,23+bounce,28,25+bounce),fill='#394b64')
+   d.rectangle((20,49,27,51),fill='#ee775a');d.rectangle((21,50,26,51),fill='#ffb17a');d.rectangle((20,55,27,57),fill='#d5dcc5');d.point((22,56),fill=ink)
+   d.rectangle((20,10,27,12),fill='#ffe8b1');d.rectangle((30,43,32,54),fill='#c1cbc2');d.rectangle((31,52,32,55),fill='#384e5d')
   elif name=='patrol':
-   d.rounded_rectangle((3,1,20,30),radius=3,fill='#101c2d');d.rectangle((4,3,19,28),fill='#d6dfd4');d.rectangle((4,6,19,11),fill='#254a60');d.rectangle((4,21,19,25),fill='#254a60');d.rectangle((5,13,18,19),fill='#34465a');d.rectangle((6,14,11,16),fill='#f96c78' if f%2==0 else '#773e64');d.rectangle((12,14,17,16),fill='#6cdfee' if f%2 else '#335b88');d.rectangle((5,2,8,3),fill='#ffe2a1');d.rectangle((15,2,18,3),fill='#ffe2a1');d.rectangle((5,27,7,28),fill='#e67f67');d.rectangle((16,27,18,28),fill='#e67f67')
+   # Armor, mirrors, radiator, windshield reflections and alternating strobes.
+   d.rounded_rectangle((7,1,40,62),radius=6,fill='#101e2c')
+   for x in [5,39]:
+    d.rectangle((x,12,x+3,22),fill='#0a1722');d.rectangle((x,43,x+3,53),fill='#0a1722')
+   d.rounded_rectangle((9,3,38,59),radius=4,fill='#b5c9c8');d.rectangle((11,6,36,55),fill='#dae1ce')
+   d.polygon([(13,17),(34,17),(37,28),(10,28)],fill='#183748');d.line((14,19,32,19),fill='#709ca7',width=2);d.line((15,21,23,25),fill='#a1cac7')
+   d.polygon([(12,43),(35,43),(33,51),(14,51)],fill='#244756');d.line((15,45,31,45),fill='#6a929c')
+   d.rectangle((13,29,34,41),fill='#304d63');d.line((14,30,33,30),fill='#6b8f9f');d.rectangle((19,36,28,39),fill='#b8cfbf')
+   d.rectangle((10,31,36,34),fill='#0c2135');d.rectangle((12,31,22,33),fill='#ff8991' if f%4<2 else '#6d3b57');d.rectangle((25,31,34,33),fill='#84edff' if f%4>=2 else '#365774')
+   for x in [11,33]:
+    d.rectangle((x,7,x+3,10),fill='#ffedb5');d.rectangle((x,54,x+3,56),fill='#eb7169');d.line((x,35,x,42),fill='#718f99')
+   d.line((16,9,16,14),fill='#91a8a8');d.line((31,9,31,14),fill='#91a8a8');d.rectangle((19,4,28,5),fill='#2c475b')
+   for x in range(18,30,3):d.line((x,57,x,59),fill='#48616b')
+   d.rectangle((6,24,9,27),fill='#8faeb5');d.rectangle((38,24,41,27),fill='#8faeb5');d.line((22,41,26,41),fill='#f3eed8')
   elif name=='money':
    d.polygon([(5,2),(12,2),(10,6),(14,11),(14,17),(10,19),(3,18),(1,14),(3,9),(6,6)],fill='#192a35');d.polygon([(6,3),(11,3),(9,6),(12,11),(12,16),(9,17),(4,16),(3,12),(6,8)],fill='#b3d78c');d.rectangle((5,6,10,7),fill='#55856b');d.line((8,9,8,15),fill='#385c55');d.line((6,10,10,10),fill='#385c55');d.line((6,14,10,14),fill='#385c55')
   elif name=='coin':
@@ -20,7 +48,7 @@ for name in ['moto','patrol','money','coin','obelisk','mate']:
   else:
    d.rectangle((10,0,11,8),fill='#d7e9e1');d.line((10,1,14,1),fill='#d7e9e1');d.polygon([(2,8),(12,8),(14,12),(11,18),(4,18),(1,13)],fill='#d99655');d.rectangle((4,9,10,10),fill='#788957');d.rectangle((5,12,7,15),fill='#f3cd82')
   frames.append(im)
- im=Image.new('RGBA',(size[0]*4,size[1]))
+ im=Image.new('RGBA',(size[0]*len(frames),size[1]))
  for i,f in enumerate(frames):im.paste(f,(i*size[0],0))
  im.save(R/(name+'-sheet.png'));frames[0].save(R/(name+'.png'))
 # A playable-world cover with an original bitmap title, no copied characters.
@@ -29,7 +57,7 @@ d.rectangle((0,0,495,280),fill='#101e2a')
 for y in [170,235]:d.rectangle((0,y,495,y+28),fill='#334b56');d.line((0,y+14,495,y+14),fill='#af9f6b',width=1)
 for x in [190,330]:d.rectangle((x,0,x+30,280),fill='#334b56')
 for x,y,name,scale in [(185,100,'obelisk',3),(305,184,'moto',2),(90,168,'patrol',2),(390,225,'patrol',2),(260,220,'money',2)]:
- a=Image.open(R/(name+'.png'));a=a.resize((a.width*scale,a.height*scale),Image.Resampling.NEAREST);im.paste(a,(x,y),a)
+ a=Image.open(R/(name+'.png'));a=a.resize((24,32),Image.Resampling.NEAREST) if name in ['moto','patrol'] else a;a=a.resize((a.width*scale,a.height*scale),Image.Resampling.NEAREST);im.paste(a,(x,y),a)
 FONT={'F':['11111','10000','10000','11110','10000','10000','10000'],'U':['10001','10001','10001','10001','10001','10001','01110'],'G':['01111','10000','10000','10111','10001','10001','01110'],'A':['01110','10001','10001','11111','10001','10001','10001'],'P':['11110','10001','10001','11110','10000','10000','10000'],'O':['01110','10001','10001','10001','10001','10001','01110'],'R':['11110','10001','10001','11110','10100','10010','10001'],'T':['11111','00100','00100','00100','00100','00100','00100'],'E':['11111','10000','10000','11110','10000','10000','11111'],'Ñ':['01010','11111','10001','11001','10101','10011','10001']}
 def text(word,y,sz,col):
  x=23

diff --git a/games/fuga-portena/README.md b/games/fuga-portena/README.md
@@ -25,3 +25,15 @@ Desde la raíz: `python3 -m http.server 3046`, abrir `/games/fuga-portena/`.
 Validación del MVP: navegador con teclado, recolección, botones táctiles, cámara/vista general y 390×844 sin desbordamiento; diagnóstico local acelerado de botín único, captura/invulnerabilidad, mate, bolsa, trompo, pausa, expiración, tres rondas, victoria/derrota y reinicio. No equivale a completar manualmente las tres rondas. Publicación mediante panel/API autenticada; probar el paquete en el sandbox antes de publicarlo.
 
 Ver PHASER-LICENSE.txt y MAP-LICENSE.txt. La base derivada está incluida en map.json bajo ODbL; arte original del proyecto Pixel Sur Arcade.
+
+## Edición 02 — Persecuciones
+
+Moto y patrullero originales de 48×64 px, con ocho cuadros cada uno: ruedas/suspensión, casco y reflejos, carrocería, cristales, espejos y balizas. Giros visuales suavizados sin salir de la geometría del grafo, sombras, humo, marcas de frenada, estela de nitro y luces de patrullero.
+
+- Nitro: N / Shift o botón visible. Dura 1,15 s, velocidad 190 frente a 132 normal, recarga 6 s. No da invulnerabilidad y se cancela al reaparecer.
+- Racha: cinco botines consecutivos, con menos de 2,1 s entre recogidas, dan +25. Se repite cada cinco.
+- Escape cercano: entrar en el radio de proximidad de un patrullero sin poder ni invulnerabilidad, luego salir a más de 80 px, da +30 y reduce 1,5 s de recarga. Se reinicia por patrullero; captura y bolsas cancelan la proximidad.
+- Si bolsa y patrullero coinciden en un tick, se recoge primero la bolsa.
+- Se conservan map.json byte a byte, los 501 nodos/532 aristas reales, tres mates, tres rondas y namespace de récord.
+
+Pruebas: animaciones de ocho frames, nitro/repetición/recarga/pausa, rachas, escape, colisión simultánea con bolsa, victoria, derrota y reinicio. Móvil 390×844: HUD y botón nitro visibles, sin overflow. Diagnósticos acelerados solo en la instancia local, sin alterar récords públicos.
